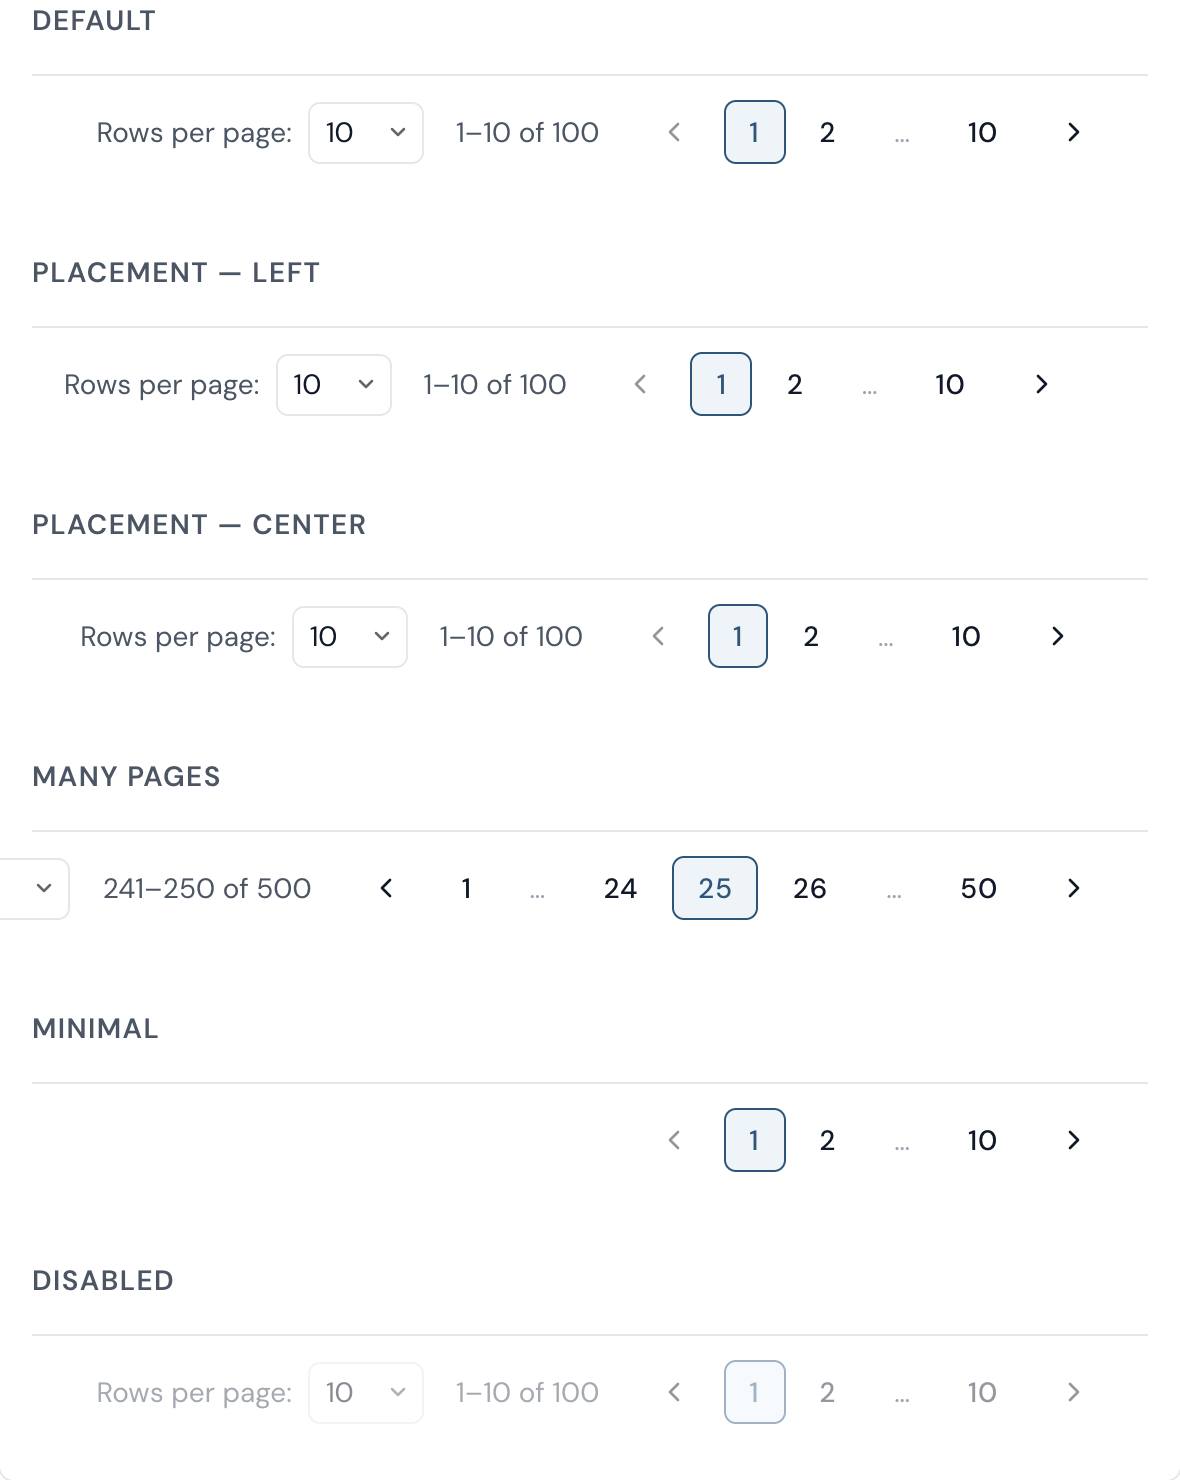
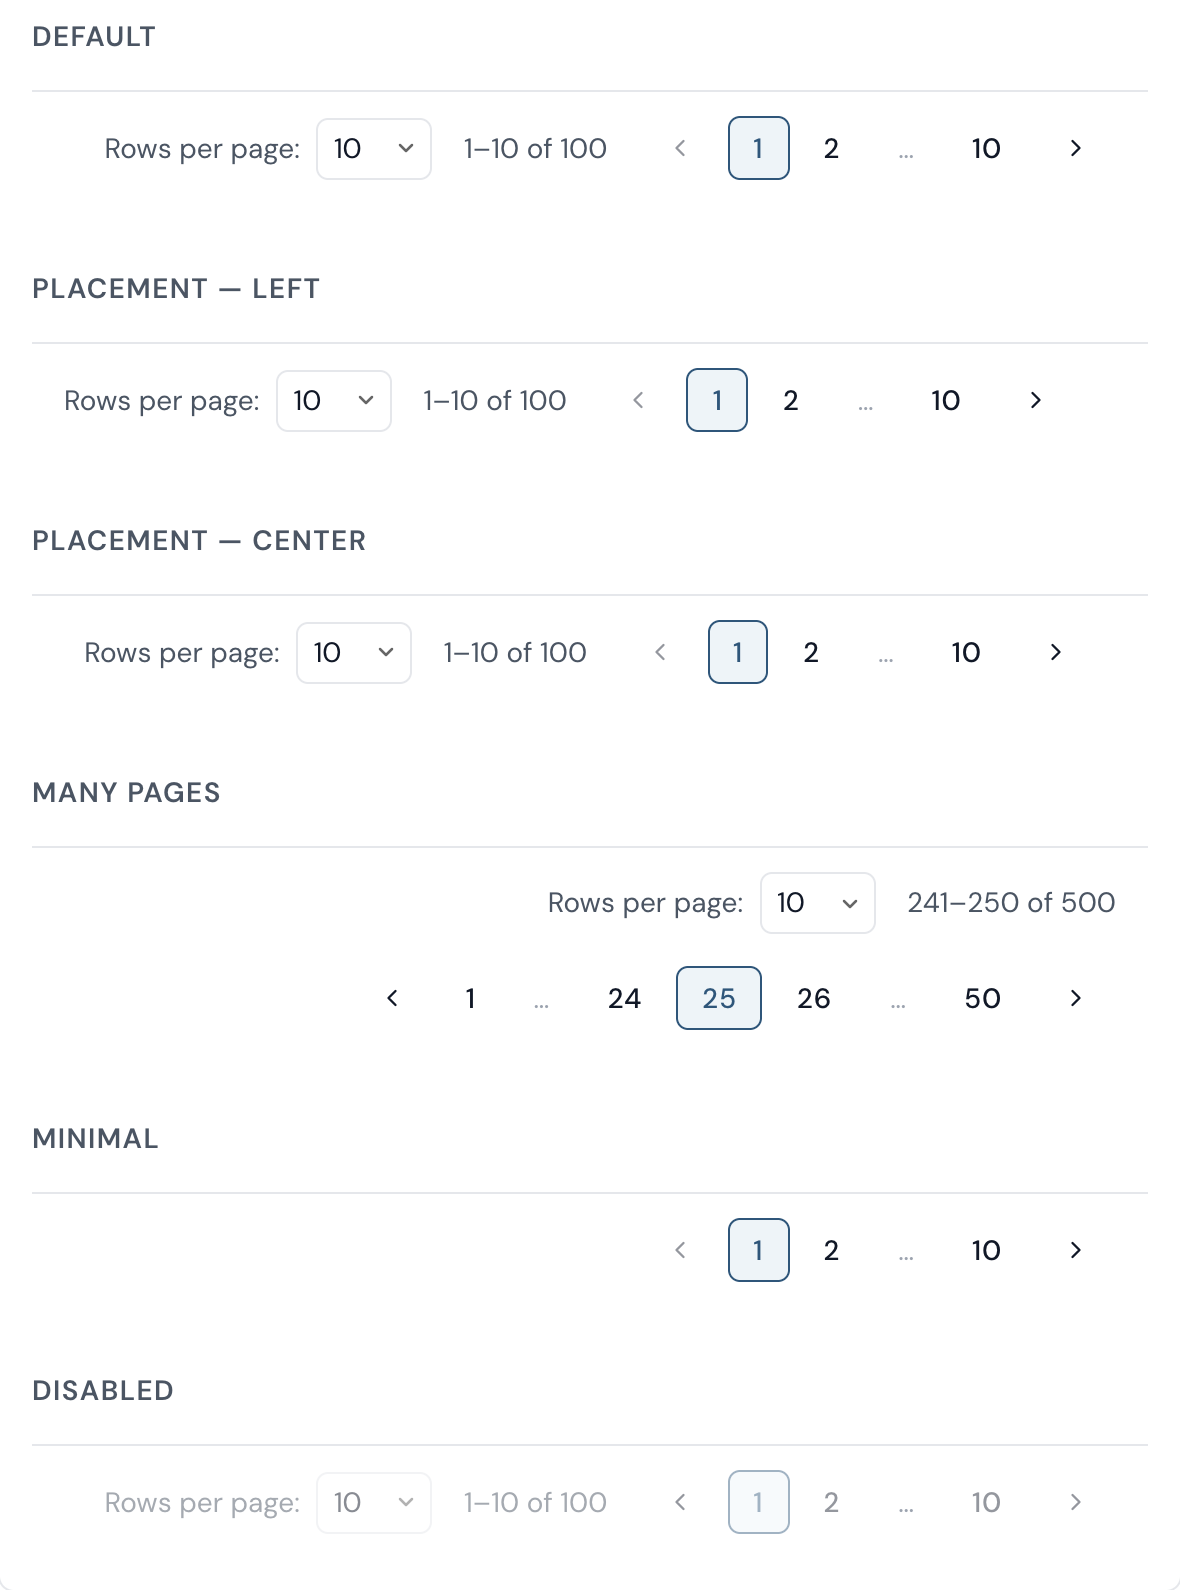
fix: allow paginator controls to wrap in narrow containers

diff --git a/src/lib/paginator/paginator.component.scss b/src/lib/paginator/paginator.component.scss
@@ -4,6 +4,7 @@
 
 .ea-paginator {
   display: flex;
+  flex-wrap: wrap;
   align-items: center;
   justify-content: flex-end;
   gap: var(--space-4);

diff --git a/CHANGELOG.md b/CHANGELOG.md
@@ -17,6 +17,7 @@ and this project adheres to [Semantic Versioning](https://semver.org/spec/v2.0.0
 ### Fixed
 
 - Set default `1em × 1em` sizing on all icon components so icons render at the inherited font size when placed inside buttons without explicit sizing
+- Allow `PaginatorComponent` controls to wrap onto multiple lines in narrow containers instead of overflowing horizontally
 - Resolve strict type checking error in Storybook build for the autocomplete story
 
 ## [0.8.1] - 2026-04-11
